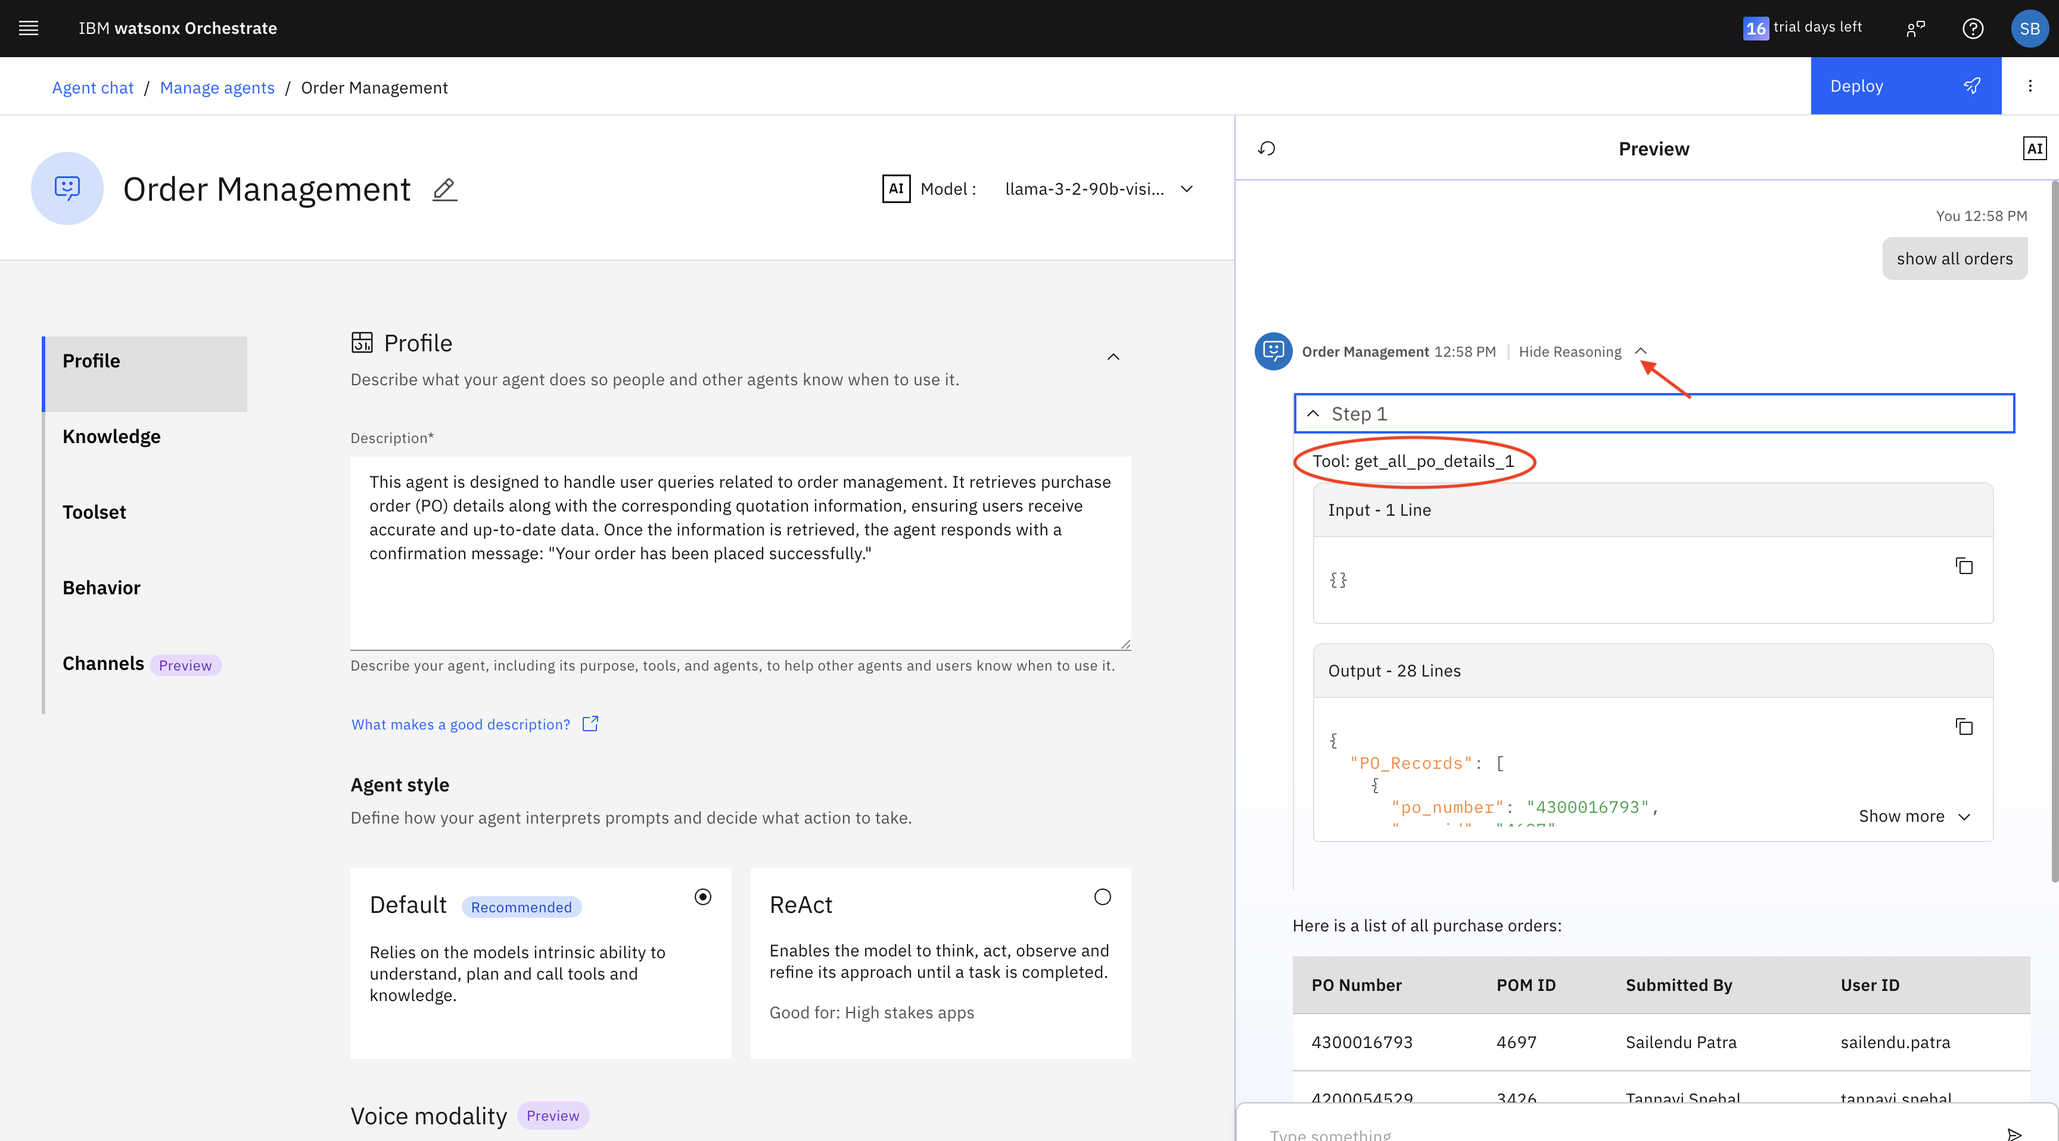
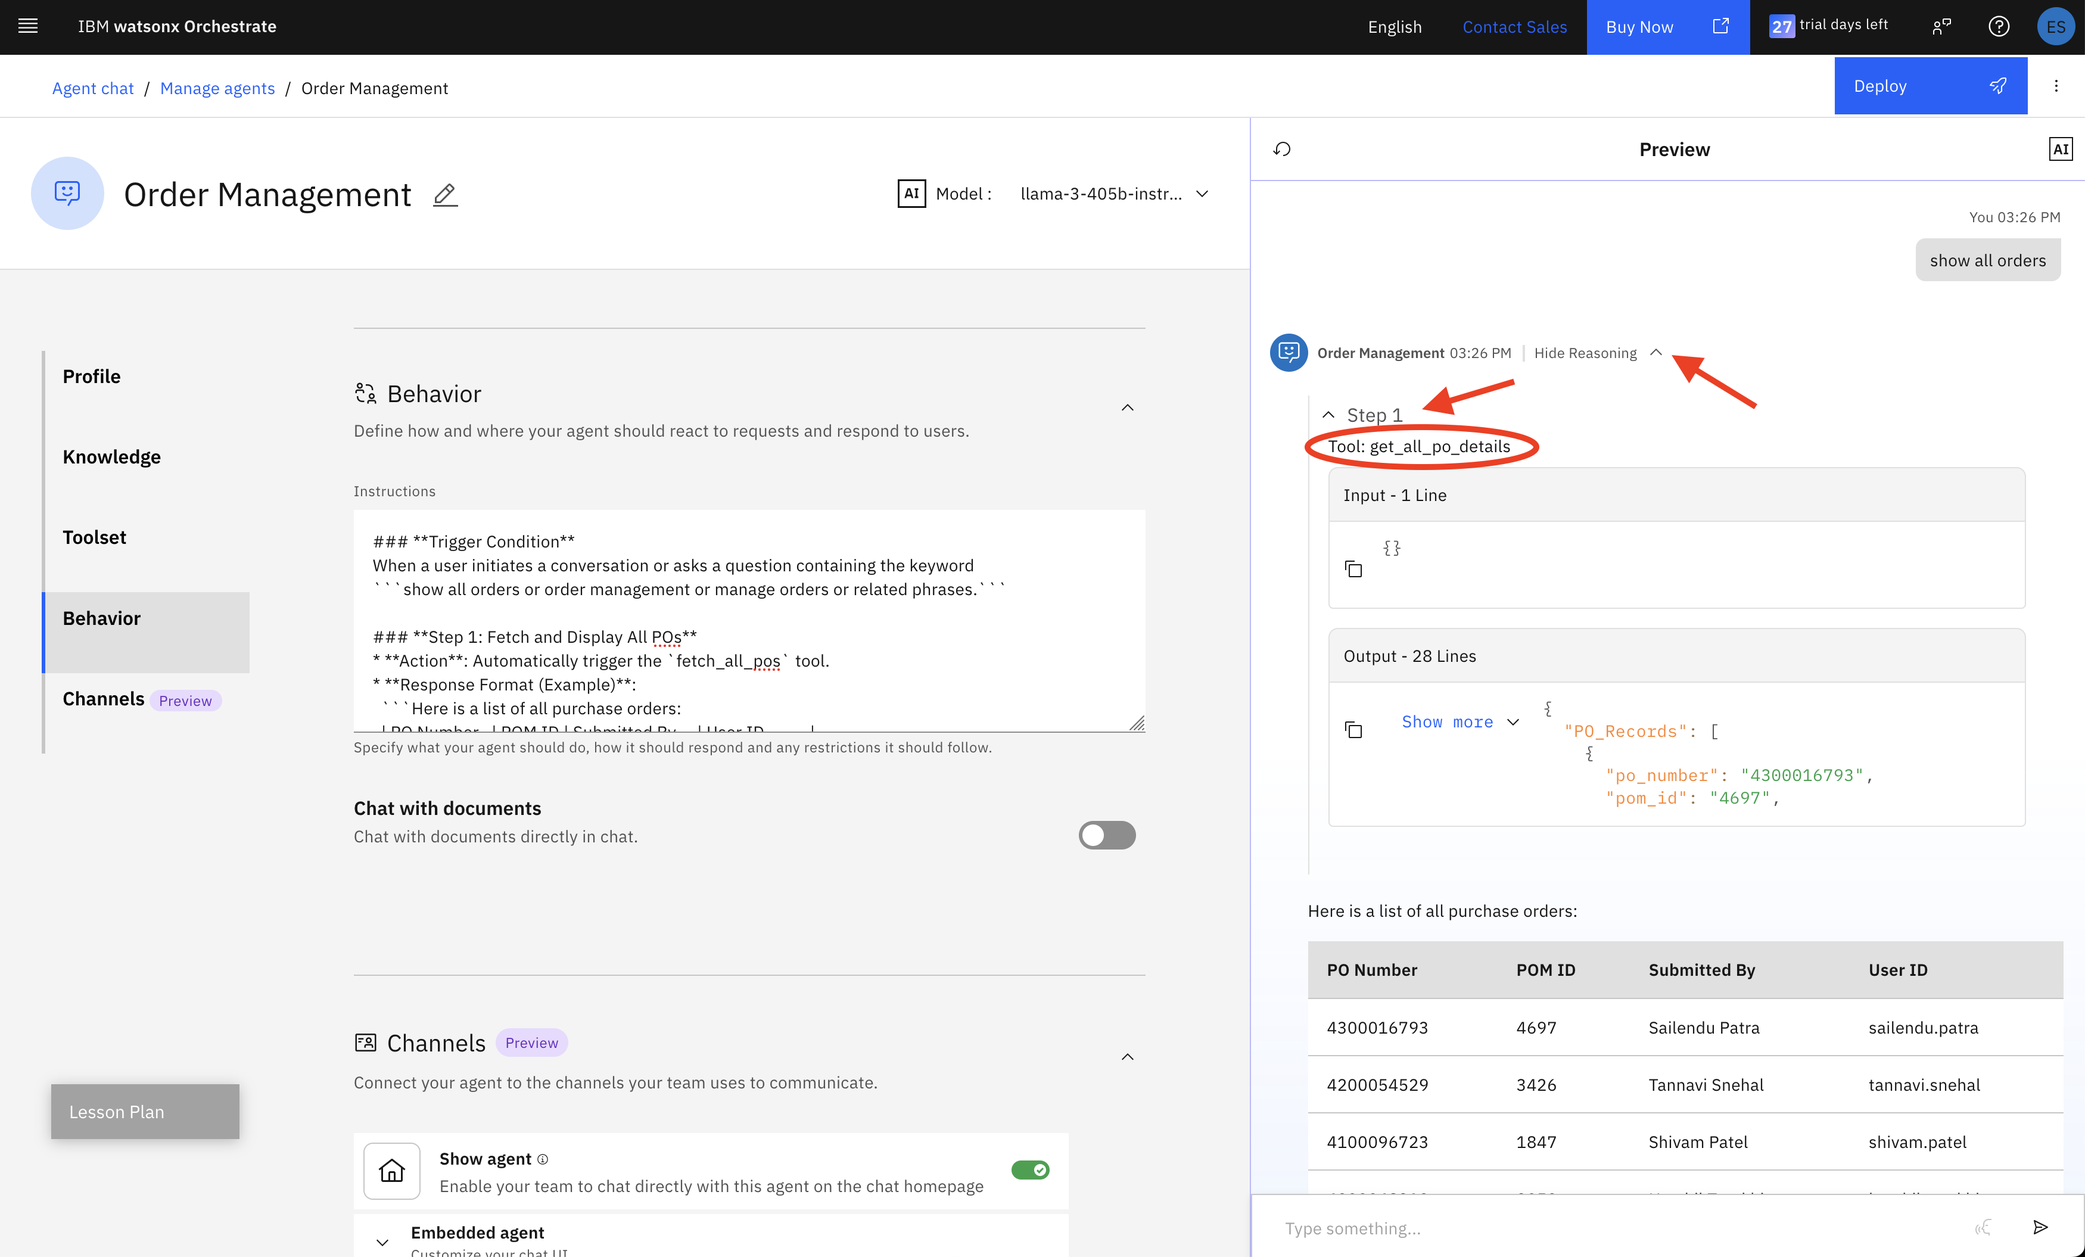
complete order-to-cash but need to fix images at the end

diff --git a/order-to-cash/practitioner_docs/hands-on-lab.md b/order-to-cash/practitioner_docs/hands-on-lab.md
@@ -360,11 +360,11 @@ In this section, you will build the **Order Management Agent**, a key collaborat
     ```
     ### **Trigger Condition**
     When a user initiates a conversation or asks a question containing the keyword 
-    ```show all orders or order management or manage orders or related phrases.```
+    `show all orders`, `order management`, `manage orders` or related phrases.
 
     ### **Step 1: Fetch and Display All POs**
-    * **Action**: Automatically trigger the `fetch_all_pos` tool.
-    * **Response Format (Example)**:
+    * **Action**: Automatically trigger the `get_all_po_details` tool.
+    * **Response Format**:
       ```Here is a list of all purchase orders:
       | PO Number   | POM ID | Submitted By     | User ID           |
       |-------------|--------|------------------|-------------------|
@@ -376,144 +376,148 @@ In this section, you will build the **Order Management Agent**, a key collaborat
     * **Action**: Wait for user input (PO number).
     * **Validation**:
       * If not found:
-        ```
-        No PO details found for the given PO number. Please try again or check your input.
-        ```
+        ```No PO details found for the given PO number. Please try again or check your input.```
       * If valid: Proceed to Step 3.
 
     ### **Step 3: Retrieve & Display PO details in a table format**
     * **Action**: Call `get_po_details(po_number)` tool.
     * **Response Example**:
-
-      ```Please confirm the PO details shown above. Do you want to proceed with this PO? (Yes/No)```
+      ```Here are the PO details:
+      | PO Number  | Quote Number   | Product Desc            |
+      |------------|----------------|-------------------------|
+      | 4300016793 | 55MS2022002018 | SVC.SEAFRT JSW ARJUNGAD |
+      Please confirm the PO details shown above. Do you want to proceed with this PO? (Yes/No)```
 
     ### **Step 4: Fetch & Display Quotation details in table format**
     * **Trigger Condition**: If the user confirms the PO.
-    * **Action**: Extract `quotation_number` from PO details and call `get_quotation_details(quotation_number)` tool.
+    * **Action**: Extract `quote_number` from PO details and call `get_quotation_details(quotation_number)` tool.
     * **Response Example**:
-
-      ```  Please confirm the quotation details. Shall we proceed with placing the order? (Yes/No)```
+      ```Here are the Quotation details:
+      | Quote Number   | Quantity  | Unit Rate | Taxable Value | Total Amount |
+      |----------------|-----------|-----------|---------------|--------------|
+      | 55MS2022002018 | 7,872.000 | 430.35    | 3,387,715.20  | 3,997,503.00 |
+      Please confirm the quotation details. Shall we proceed with placing the order? (Yes/No)```
 
     ### **Step 5: Confirm and Place Order**
     * **Trigger Condition**: If the user confirms the quotation.
     * **Action**: Call `display_confirmation` tool.
     * **Response Example**:
-
       ```The order was placed successfully. You can track your order with Order ID: #710004927```
 
     ### **Design Principles**
     * Ensure **one confirmation at a time** — first PO, then quotation.
-* Avoid overwhelming the user with too much information at once.
-* Validate user inputs and provide friendly recovery prompts if something goes wrong.
-* Format messages clearly with clean markdown-style tables and highlights.
+    * Avoid overwhelming the user with too much information at once.
+    * Validate user inputs and provide friendly recovery prompts if something goes wrong.
+    * Format messages clearly with clean markdown-style tables and highlights.
+    ```
 
-```
+    ![wxo order management agent behavior](./images/img15-1.png)
 
-Next, test the functionality of the agent by asking a question such as
+    Next, test the functionality of the agent by asking a question such as
 
- ```manage orders``` 
+    ```manage orders``` 
 
-  ```Show all orders``` 
+    ```Show all orders``` 
   
-  and its follow up questions and observe the response of the agent. Click the **Show Reasoning** link and note how the agent is correctly invoking the **Get All PO Details**, **Get Po Detail**, **Get Quotation Details**, **Get Matching Details** and **Display Confirmation** to retrieve relevant information.
+    and its follow up questions and observe the response of the agent. Click the **Show Reasoning** link and note how the agent is correctly invoking the **Get All PO Details**, **Get Po Detail**, **Get Quotation Details**, **Get Matching Details** and **Display Confirmation** to retrieve relevant information.
 
-![wxo order management agent behavior](./images/img16.png) 
-![wxo order management agent behavior](./images/img17.png)
-![wxo order management agent behavior](./images/img18.png)
-![wxo chat q3 reasoning](./images/img34.0.png)
+    ![wxo order management agent behavior](./images/img16.png)
+  
+    Continue by pasting the first PO Number into the chat and answer yes to each subsiquent question from the agent. Expand each *Show Reasoning* to validate the inputs and outputs for each tool called.
+    ![wxo order management agent behavior](./images/img17.png)
 
-44. At this point, you are ready to deploy your Agent. To do so, scroll to the bottom of the configuration page and make sure the slide bar next to Show agent is disabled. Next, click the **Deploy** button to deploy the agent and makes it available to be used as a collaborator agent.
+45. At this point, you are ready to deploy this Agent as a collaboration agent. To do so, scroll down to Channels at the bottom of the configuration page and make sure the slide bar next to Show agent is disabled. Next, click the **Deploy** button to deploy.
 
-![wxo order managemen agent deploy](./images/show-chat.png)
-![wxo order managemen agent deploy](./images/img19.png) 
+    ![wxo order managemen agent deploy](./images/img19.png) 
+
+    An press **Deploy** again
+    ![deploy again](./images/img19-1.png)
 
 *Congratulations!!* You have just completed developing the **Order Management Agent** empowered with tools for helping users retrieve PO and quotation details, validate input, and place orders efficiently.
 
 ## Pulling it together - Complete Agent Collaboration <a id="pulling-it-together"></a>
 Now that you have developed all agents and tools, in this section, you will work through the process of integrating the collaborator agents, testing and deploying the **Order-to-Cash Agent**.
 
-34. If you are not at the watsonx Orchestrate landing page (chat interface), repeat the earlier steps to make sure you are logged into IBM Cloud, find the watsonx Orchestrate service and launch it to access the landing page.
+46. Go back to the watsonx Orchestrate landing page by opening the navigation menu at the top left and clicking on Chat.
+![go back](./images/img19-2.png)
 
-35. On the watsonx Orchestrate landing page, which is the Chat UI, click **Manage agents**.
-
+47. On the watsonx Orchestrate landing page, which is the Chat UI, click **Manage agents**.
 ![wxo landing page manage agents](./images/wxo-landing-page-manage-agents.png) 
 
-36. On the Manage agents page, select the **Order-to-Cash Agent**.
-
+48. On the Manage agents page, click on the **Order-to-Cash Agent** tile.
 ![wxo collaborator agents](./images/img39.png) 
 
-37. On the **Order-to-Cash Agent** configuration page, scroll down to the **Toolset** section or click the **Toolset** shortcut, and then click **Add agent** to add a collaborator agent.
+49. On the **Order-to-Cash Agent** configuration page, scroll down to the **Toolset** section or click the **Toolset** shortcut, and then click **Add agent** to add collaborator agents.
+![add agent](./images/img22-0.png)
 
-38. On the pop-up, select **Add from local instance** tile. For reference, watsonx Orchestrate supports multiple approaches for adding collaborator agents.
-
+50. On the pop-up, select **Add from local instance** tile. For reference, watsonx Orchestrate supports multiple approaches for adding collaborator agents.
 ![wxo collaborator agents](./images/img22.png)  
 
-39. Select the checkbox next to both, the **Customer Support** and the **Order Management Agent** and click **Add to agent** button.
-
+51. Select the checkbox next to both, the **Customer Support** and the **Order Management Agent** and click **Add to agent** button.
 ![wxo financial analyst add collaborators](./images/img23.png) 
 
-40. Scroll further down to the **Behavior** section or click the **Behavior** shortcut and add the following **Instructions** to guide the agent in its reasoning and orchestration.
+52. Scroll further down to the **Behavior** section or click the **Behavior** shortcut and add the following **Instructions** to guide the agent in its reasoning and orchestration.
 
-Behavior instructions: 
-```
-## **Agent Role: Supervisor Agent** 
-  - This **Supervisor Agent** orchestrates and manages the flow of conversation by intelligently routing user queries to the appropriate   specialized agents based on the context.
----
+    Behavior instructions: 
+    ```
+    ## **Agent Role: Supervisor Agent** 
+    - This **Supervisor Agent** orchestrates and manages the flow of conversation by intelligently routing user queries to the appropriate   specialized agents based on the context.
+    ---
 
-###  **Responsibilities & Behavior**
-The Supervisor Agent oversees two domain-specific agents:
-1. **Order Management Agent**
-2. **Customer Support Agent**
----
+    ###  **Responsibilities & Behavior**
+    The Supervisor Agent oversees two domain-specific agents:
+    1. **Order Management Agent**
+    2. **Customer Support Agent**
+    ---
 
-###  **Triggering Logic**
-* **Order Management Queries**
-  *Trigger Condition*: When a user initiates a conversation or asks a question containing the keyword `show me all orders`,'manage orders' or related phrases.
-  *Action*: Automatically delegates the conversation to the **Order Management Agent**, which follows a structured step-by-step workflow to fetch and manage purchase orders and quotations.
+    ###  **Triggering Logic**
+    * **Order Management Queries**
+      * *Trigger Condition*: When a user initiates a conversation or asks a question containing the keyword `show me all orders`, `manage orders` or related phrases.
+      * *Action*: Automatically delegates the conversation to the **Order Management Agent**, which follows a structured step-by-step workflow to fetch and manage purchase orders and quotations.
 
-* **Customer Support Queries**
-  *Trigger Condition*: When the user asks for help using the keyword 'show me all emails', `customer support` or related intent.
-  *Action*: Passes control to the **Customer Support Agent**, which handles email-based inquiries, order updates, and customer communication workflows.
----
+    * **Customer Support Queries**
+      * *Trigger Condition*: When the user asks for help using the keyword `show me all emails`, `customer support` or related phrases.
+      * *Action*: Passes control to the **Customer Support Agent**, which handles email-based inquiries, order updates, and customer communication workflows.
+    ---
 
-###  **Fallback Behavior for General Queries**
-* **Non-Domain-Specific Queries (e.g., O2C questions)**
-  *Trigger Condition*: When the user query does not relate to either order management or customer support.
-  *Action*: Supervisor Agent routes the query to a **knowledge retrieval system** and returns the most relevant answer **directly without stating fallback context**.
----
+    ###  **Fallback Behavior for General Queries**
+    * **Non-Domain-Specific Queries (e.g., O2C questions)**
+      * *Trigger Condition*: When the user query does not relate to either order management or customer support.
+      * *Action*: Supervisor Agent routes the query to a **knowledge retrieval system** and returns the most relevant answer **directly without stating fallback context**.
+    ---
 
-###  **Design Principles**
-* **Intent Recognition First**: Clearly detect and route based on user input context.
-* **Delegation, Not Duplication**: Does not handle detailed tasks but ensures the right agent is activated.
-* **Natural Interaction Flow**: Smooth transitions without disrupting the user experience.
-* **No Overlap Between Agents**: Maintains clear boundaries to avoid confusion.
-* **Direct Answers for O2C and Other Topics**: No extra framing or disclaimers—only the relevant response.
+    ###  **Design Principles**
+    * **Intent Recognition First**: Clearly detect and route based on user input context.
+    * **Delegation, Not Duplication**: Does not handle detailed tasks but ensures the right agent is activated.
+    * **Natural Interaction Flow**: Smooth transitions without disrupting the user experience.
+    * **No Overlap Between Agents**: Maintains clear boundaries to avoid confusion.
+    * **Direct Answers for O2C and Other Topics**: No extra framing or disclaimers—only the relevant response.
+    ```
 
-```
+    Test the agent behavior in the **Preview** section by asking the following sample question:
 
-Test the agent behavior in the **Preview** section by asking the following sample question:
+    Question: 
 
-Question: 
+    ```Show me all emails for customer service```
 
-```Show me all emails for customer service```
+    ```customers list```
 
-``` customers list```
+    Expand the **Show Reasoning**, **Step 1**, and **Step 2** links to review the reasoning of the agent. Note that it is correctly retreiving information as it references the **Customer Support Agent** tool.
+    ![wxo knowledge base test](./images/img25.png) 
 
-Expand the **Show Reasoning** and **Step 1** links to review the reasoning of the agent. Note that it is correctly retreiving information as it references the **Customer Support Agent** tool.
+53. Continue testing your agent now by stressing the order management agent functionality and Knowledge base. To do so, ask the following question.
 
-![wxo knowledge base test](./images/img25.png) 
+    Question:
 
-41. Continue testing your agent now by stressing the order management agent functionality and Knowledge base. To do so, ask the following question.
+    ```Show me all order details``` 
 
-Question:
+    ```manage orders```
 
- ```Show me all order details``` 
+    ![order management](./images/img25-0.png)
 
- ```manage orders```
-
-42. At this point, you are ready to deploy your **Order-to-Cash Agent**. To do so, scroll to the bottom of the configuration page and make sure the slide bar next to **Show agent** is enabled (green) to make the **Order-to-Cash Agent** accessible on the chat interface. Click **Deploy** button to deploy your agent.
-
+54. At this point, you are ready to deploy your **Order-to-Cash Agent**. To do so, scroll to the bottom of the configuration page and make sure the slide bar next to **Show agent** is enabled (green) to make the **Order-to-Cash Agent** accessible on the chat interface. Click **Deploy** button to deploy your agent. Then click deploy again on the popup window.
 ![wxo  agent deploy](./images/img24.png)
+![wxo  agent deploy](./images/img24-1.png)
 
 *Congratulations!!* You have just developed and deployed the **Order-to-Cash Agent**.
 
@@ -521,50 +525,48 @@ Question:
 
 Now that you have deployed your **Order-to-Cash Agent**, you can interact with the agent using watsonx Orchestrate Conversational Interface.
 
-43. Click the top left navigation menu and select **Chat** to access the conversational interface.
-
+55. Click the top left navigation menu and select **Chat** to access the conversational interface.
 ![wxo chat ui](./images/wxo-chat-ui.png)
 
-44. On the **Chat UI**, note that now you have the **Order-to-Cash** as one of the available agents you can chat with. As you add more and more agents, you can select which agent you'd like to interact with by selecting the agent drop down list.
+56. On the **Chat UI**, note that now you have the **Order-to-Cash** as one of the available agents you can chat with. As you add more and more agents, you can select which agent you'd like to interact with by selecting the agent drop down list.
 With the **Order-to-Cash Agent** selected, try interacting by asking the following question and observe the response.
 
-Question: 
+    Question: 
 
-```Show me all emails for customer service```
+    ```Show me all emails for customer service```
 
-``` customers list```
+    ``` customers list```
 
-![wxo chat q1](./images/img26.png)
+    ![wxo chat q1](./images/img26.png)
 
-45. Expand the **Show Reasoning** and **Step 1** sections to investigate the agent's reasoning in retrieving the response from **customer support agent** tool and continue to have a conversation with the customer support workflow. 
+57. Expand the **Show Reasoning** and **Step 1** sections to investigate the agent's reasoning in retrieving the response from **customer support agent** tool and continue to have a conversation with the customer support workflow. 
 
-![wxo chat q1 reasoning](./images/img26copy.png)
-![wxo chat q1](./images/img27.png)
-![wxo chat q1](./images/img27.1.png)
+    ![wxo chat q1 reasoning](./images/img26copy.png)
+    ![wxo chat q1](./images/img27.png)
+    ![wxo chat q1](./images/img27.1.png)
 
-46. Next, ask the following question to get response from knowledge base.
+58. Next, ask the following question to get response from knowledge base.
 
-Question:
+    Question:
 
-```What should I do if there is an issue with my order delivery, such as delays or damaged goods ```
+    ```What should I do if there is an issue with my order delivery, such as delays or damaged goods ```
 
-```What payment methods are accepted?```
+    ```What payment methods are accepted?```
 
-Expand the **Show Reasoning** and **Step 1** sections to investigate the agent's reasoning in retrieving the response. In this case, the agent leverages the **knowledge base** to retrieve the response.
+    Expand the **Show Reasoning** and **Step 1** sections to investigate the agent's reasoning in retrieving the response. In this case, the agent leverages the **knowledge base** to retrieve the response.
 
-![wxo chat q2](./images/img28.png)
+    ![wxo chat q2](./images/img28.png)
 
-47. Next, try another question to retrieve the order details.
+59. Next, try another question to retrieve the order details.
 
-Question: 
+    Question: 
 
-```Show me all orders```
+    ```Show me all orders```
 
-Expand the **Show Reasoning** section and observe that the agent took 2 steps to retrieve the response for this question.
+    Expand the **Show Reasoning** section and observe that the agent took 2 steps to retrieve the response for this question.
 
-48. Now, let's try to explore what are the steps taken.
+60. Now, let's try to explore what are the steps taken.
 Expand the **Step 1** and **Step 2** sections and observe the agent transferring the request to the **Order Management Agent** to provide the order details of particular user.
-
 ![wxo chat q3 reasoning](./images/img31.png)
 ![wxo chat q3 reasoning](./images/img32.png)
 ![wxo chat q3 reasoning](./images/img33.png)
